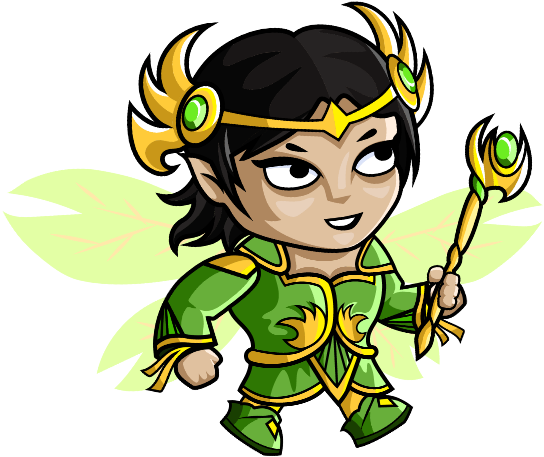
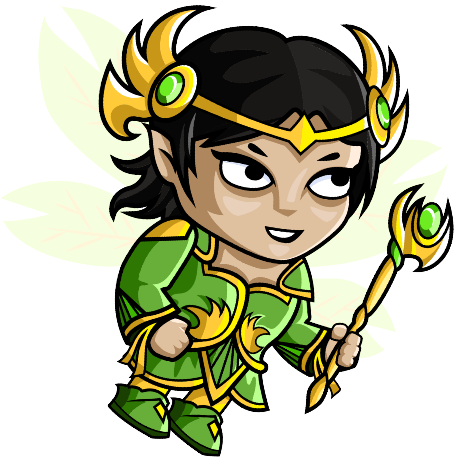
reset status bars, enemies, crystals etc.

diff --git a/levels/level1.js b/levels/level1.js
@@ -1,75 +1,79 @@
-const level1 = new Level(
-    [
-        new Wraith(),
-        new Wraith(),
-        new Wraith(),
-        new Wraith(),
-        new Demon()
-    ],
-    [
-        new Clouds('../img/bg/layers/clouds_1.png'),
-        new Clouds('../img/bg/layers/clouds_1.png'),
-        new Clouds('../img/bg/layers/clouds_2.png'),
-        new Clouds('../img/bg/layers/clouds_2.png'),
-        new Clouds('../img/bg/layers/clouds_2.png')
-    ],
-    [
-        new BgObject('../img/bg/layers/sky.png', -570),
-        new BgObject('../img/bg/layers/rocks.png', -570),
-        new BgObject('../img/bg/layers/sky.png', 150),
-        new BgObject('../img/bg/layers/rocks.png', 150),
-        new BgObject('../img/bg/layers/sky.png', 720 + 150),
-        new BgObject('../img/bg/layers/rocks.png', 720 + 150),
-        new BgObject('../img/bg/layers/sky.png', 720*2 + 150),
-        new BgObject('../img/bg/layers/rocks.png', 720*2 + 150),
-        new BgObject('../img/bg/layers/sky.png', 720*3 + 150),
-        new BgObject('../img/bg/layers/rocks.png', 720*3 + 150)
-    ],
-    [
-        new BgObject('../img/bg/layers/ground_1.png', -570),
-        new BgObject('../img/bg/layers/ground_2.png', -570),
-        new BgObject('../img/bg/layers/ground_3.png', -570),
-        new BgObject('../img/bg/layers/ground_1.png', 150),
-        new BgObject('../img/bg/layers/ground_2.png', 150),
-        new BgObject('../img/bg/layers/ground_3.png', 150),
-        new BgObject('../img/bg/layers/ground_1.png', 720 + 150),
-        new BgObject('../img/bg/layers/ground_2.png', 720 + 150),
-        new BgObject('../img/bg/layers/ground_3.png', 720 + 150),
-        new BgObject('../img/bg/layers/ground_1.png', 720*2 + 150),
-        new BgObject('../img/bg/layers/ground_2.png', 720*2 + 150),
-        new BgObject('../img/bg/layers/ground_3.png', 720*2 + 150),
-        new BgObject('../img/bg/layers/ground_1.png', 720*3 + 150),
-        new BgObject('../img/bg/layers/ground_2.png', 720*3 + 150),
-        new BgObject('../img/bg/layers/ground_3.png', 720*3 + 150)
-    ],
-    [
-        new Plant(),
-        new Plant(),
-        new Plant(),
-        new Plant(),
-        new Plant(),
-        new Plant(),
-        new Plant(),
-        new Plant(),
-        new Plant(),
-        new Plant()
-    ],
-    [
-        new Crystal(),
-        new Crystal(),
-        new Crystal(),
-        new Crystal(),
-        new Crystal(),
-        new Crystal(),
-        new Crystal()
-    ],
-    [
-        new Apple(),
-        new Apple(),
-        new Apple(),
-        new Apple(),
-        new Apple(),
-        new Apple(),
-        new Apple()
-    ]
-);
+let level1;
+
+function initLevel() {
+    level1 = new Level(
+        [
+            new Wraith(),
+            new Wraith(),
+            new Wraith(),
+            new Wraith(),
+            new Demon()
+        ],
+        [
+            new Clouds('../img/bg/layers/clouds_1.png'),
+            new Clouds('../img/bg/layers/clouds_1.png'),
+            new Clouds('../img/bg/layers/clouds_2.png'),
+            new Clouds('../img/bg/layers/clouds_2.png'),
+            new Clouds('../img/bg/layers/clouds_2.png')
+        ],
+        [
+            new BgObject('../img/bg/layers/sky.png', -570),
+            new BgObject('../img/bg/layers/rocks.png', -570),
+            new BgObject('../img/bg/layers/sky.png', 150),
+            new BgObject('../img/bg/layers/rocks.png', 150),
+            new BgObject('../img/bg/layers/sky.png', 720 + 150),
+            new BgObject('../img/bg/layers/rocks.png', 720 + 150),
+            new BgObject('../img/bg/layers/sky.png', 720*2 + 150),
+            new BgObject('../img/bg/layers/rocks.png', 720*2 + 150),
+            new BgObject('../img/bg/layers/sky.png', 720*3 + 150),
+            new BgObject('../img/bg/layers/rocks.png', 720*3 + 150)
+        ],
+        [
+            new BgObject('../img/bg/layers/ground_1.png', -570),
+            new BgObject('../img/bg/layers/ground_2.png', -570),
+            new BgObject('../img/bg/layers/ground_3.png', -570),
+            new BgObject('../img/bg/layers/ground_1.png', 150),
+            new BgObject('../img/bg/layers/ground_2.png', 150),
+            new BgObject('../img/bg/layers/ground_3.png', 150),
+            new BgObject('../img/bg/layers/ground_1.png', 720 + 150),
+            new BgObject('../img/bg/layers/ground_2.png', 720 + 150),
+            new BgObject('../img/bg/layers/ground_3.png', 720 + 150),
+            new BgObject('../img/bg/layers/ground_1.png', 720*2 + 150),
+            new BgObject('../img/bg/layers/ground_2.png', 720*2 + 150),
+            new BgObject('../img/bg/layers/ground_3.png', 720*2 + 150),
+            new BgObject('../img/bg/layers/ground_1.png', 720*3 + 150),
+            new BgObject('../img/bg/layers/ground_2.png', 720*3 + 150),
+            new BgObject('../img/bg/layers/ground_3.png', 720*3 + 150)
+        ],
+        [
+            new Plant(),
+            new Plant(),
+            new Plant(),
+            new Plant(),
+            new Plant(),
+            new Plant(),
+            new Plant(),
+            new Plant(),
+            new Plant(),
+            new Plant()
+        ],
+        [
+            new Crystal(),
+            new Crystal(),
+            new Crystal(),
+            new Crystal(),
+            new Crystal(),
+            new Crystal(),
+            new Crystal()
+        ],
+        [
+            new Apple(),
+            new Apple(),
+            new Apple(),
+            new Apple(),
+            new Apple(),
+            new Apple(),
+            new Apple()
+        ]
+    );
+}

diff --git a/models/world.class.js b/models/world.class.js
@@ -16,7 +16,7 @@ class World {
     constructor(canvas, keyboard) {
         this.ctx = canvas.getContext('2d'); // Wir können nicht direkt in unser Canvas malen, sondern brauchen dafür "Context"!
         this.canvas = canvas; // Das "canvas", das in den Constructor übergeben wurde, wird hierdurch an die Variable "canvas" oben übergeben und ist somit zB auch für die Funktion "draw" unten verfügbar.
-        this.keyboard = keyboard;
+        this.keyboard = keyboard;        
         this.draw();
         this.setWorld();
         this.run();
@@ -41,8 +41,7 @@ class World {
 
         this.addObjectsToMap(this.level.enemies);
         this.addObjectsToMap(this.throwableObjects);
-        this.addObjectsToMap(this.level.plants);
-        
+        this.addObjectsToMap(this.level.plants);        
 
         this.ctx.translate(-this.camera_x, 0); // Bildausschnitt wird wieder nach rechts verschoben.
 

diff --git a/index.html b/index.html
@@ -36,6 +36,8 @@
 
     <h1>Demon Woods</h1>
 
+    <img class="symbol-restart" src="img/symbols/restart.png" onclick="startNewGame()">
+
     <canvas id="canvas" width="720" height="480">
 
     </canvas>
@@ -45,7 +47,7 @@
             <div class="start-screen-content">
                 <h2>Demon Woods</h2>
                 <div class="choices-container">
-                    <div onclick="startGame()" class="start-screen-mouseover">
+                    <div onclick="startNewGame()" class="start-screen-mouseover">
                         <img class="start-screen-image" src="img/start/fairy.png"><br>
                         <span>Start Game</span>
                     </div>

diff --git a/js/status-bars.js b/js/status-bars.js
@@ -22,8 +22,12 @@ const PATHS_STATUS_CRYSTALS = [
     '../img/statusbars/crystals/80.png',
     '../img/statusbars/crystals/100.png'
 ];
-const newStatusBars = [
-    new StatusBar(PATHS_STATUS_HEALTH, 10, 100),
-    new StatusBar(PATHS_STATUS_APPLES, 60, 0),    
-    new StatusBar(PATHS_STATUS_CRYSTALS, 105, 0)
-];
+let newStatusBars;
+
+function initStatusBars() {
+    newStatusBars = [
+        new StatusBar(PATHS_STATUS_HEALTH, 10, 100),
+        new StatusBar(PATHS_STATUS_APPLES, 60, 0),    
+        new StatusBar(PATHS_STATUS_CRYSTALS, 105, 0)
+    ];
+}

diff --git a/style.css b/style.css
@@ -41,6 +41,19 @@ canvas {
     display: none;
 }
 
+.symbol-restart {
+    height: 50px;
+    transform: scaleX(-1);
+    filter: invert(25%);
+    position: absolute;
+    top: 30px;
+    right: 30px;
+}
+
+.symbol-restart:hover {
+    cursor: pointer;
+}
+
 .start-screen-bg {
     background-image: url('img/background.png');
     background-position: center;

diff --git a/js/game.js b/js/game.js
@@ -8,9 +8,11 @@ function init() {
     // console.log('My character is ', world.character);
 }
 
-function startGame() {
+function startNewGame() {
     hideStartScreen();
-    init();
+    initLevel();
+    initStatusBars();
+    init();    
 }
 
 function handleDescription() {

diff --git a/models/character.class.js b/models/character.class.js
@@ -1,7 +1,7 @@
 class Character extends MovableObject {
 
     height = 370;
-    width = 550;
+    width = 600;
     x = -100;
     y = 150;
     interval_idle = 170;
